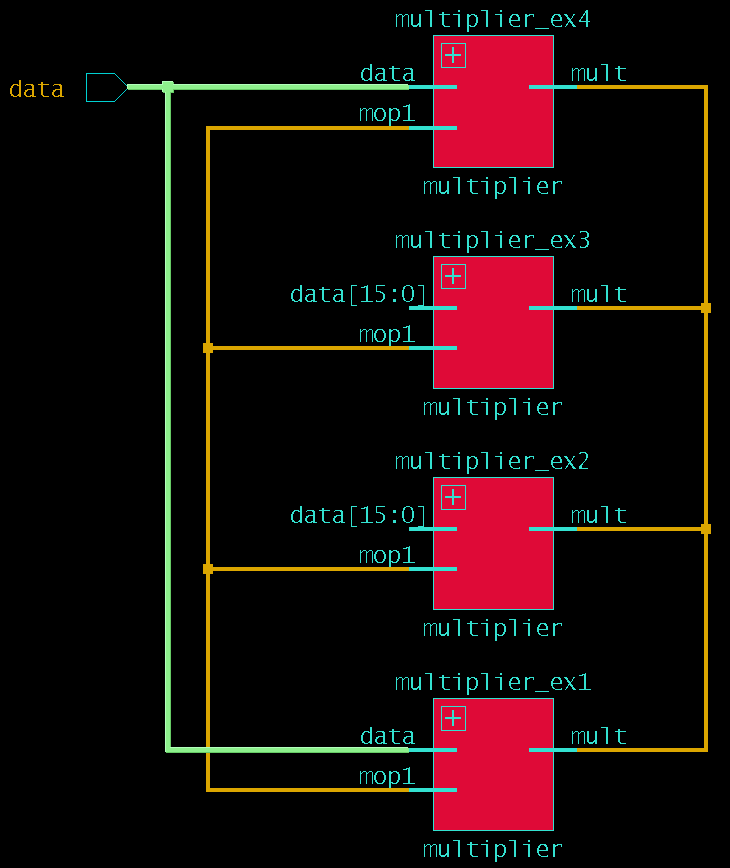
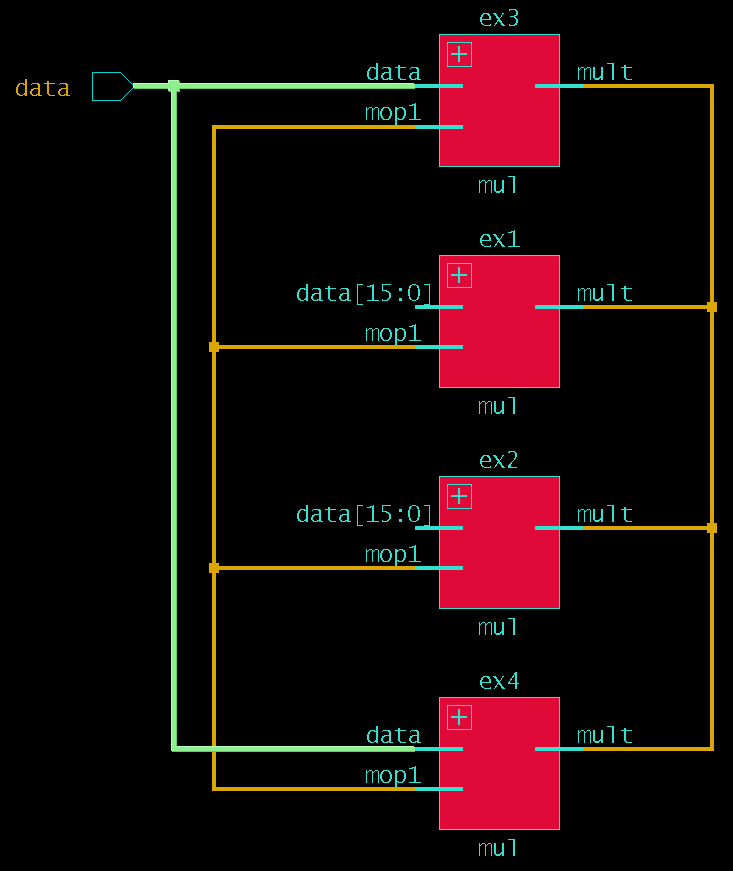
fixes for final simpler code

Changed region(s): [[0.1205, 0.0, 0.9945, 0.9954], [0.0, 0.0933, 0.0904, 0.1244]]

diff --git a/README.md b/README.md
@@ -7,8 +7,8 @@ I had made a mistake thinking that .data and .data() were equivalent when in rea
 "SystemVerilog Implicit Port Connections - Simulation & Synthesis" by Cliff Cummings
 
 ```
-multiplier multiplier_ex1 (.mult, .mop1, .data);
-multiplier multiplier_ex3 (.mult, .mop1, .data());
+mul ex1 (.mult, .mop1, .data);
+mul ex3 (.mult, .mop1, .data());
 ```
 
 ![Example](example.png)
